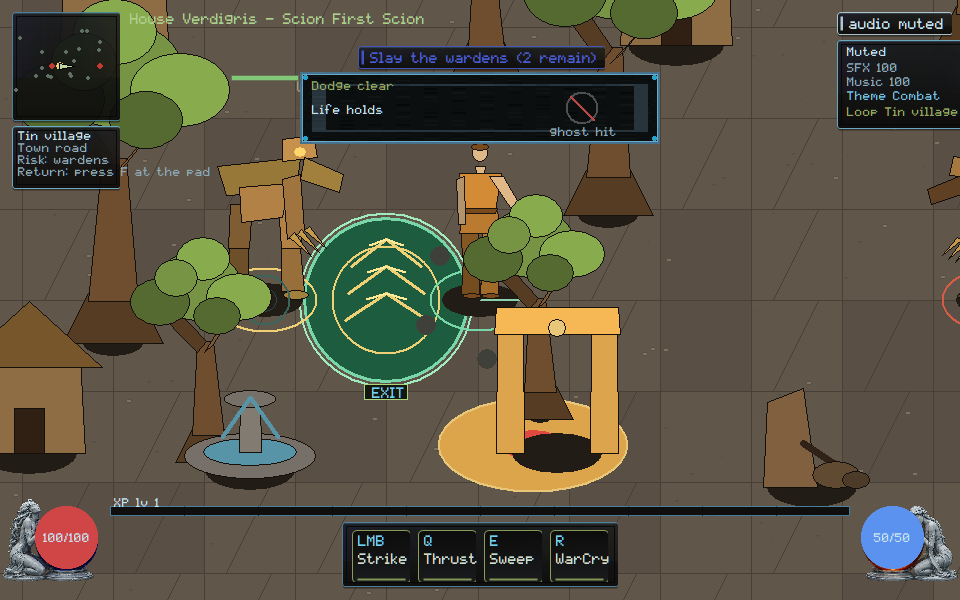
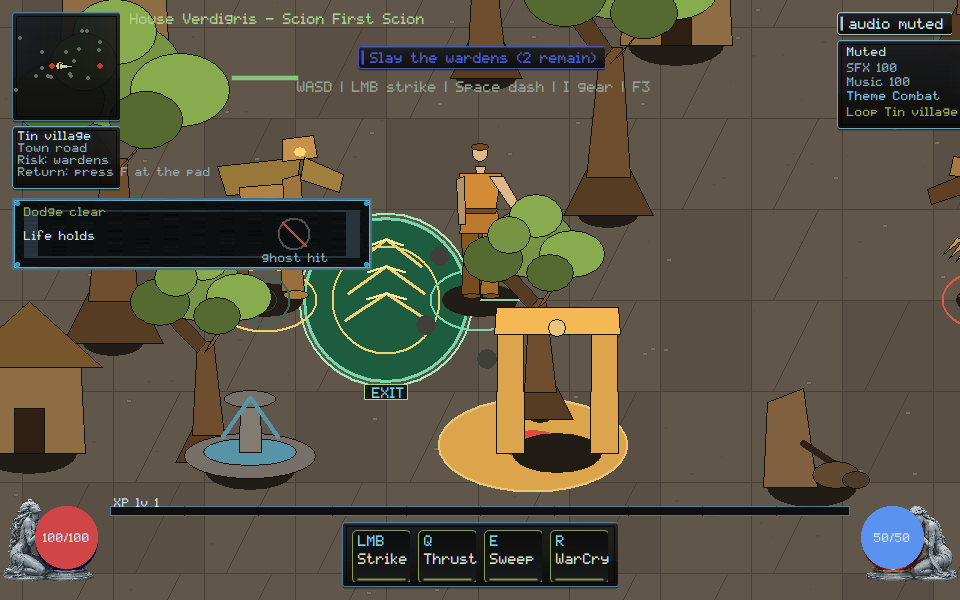
native: park Dodge clear off WASD and Tin village so covering combat HUD cannot certify

Changed region(s): [[0.0, 0.33, 0.4062, 0.45], [0.3125, 0.12, 0.6875, 0.24]]

diff --git a/native/client/main.cpp b/native/client/main.cpp
@@ -8583,8 +8583,12 @@ void paint_telegraph_dodge_review_strip(ClientState& state, HDC dc, const RECT& 
   const int s = hud_scale(static_cast<int>(bounds.bottom));
   const int pane_w = 360 * s;
   const int pane_h = 72 * s;
-  const int left = (static_cast<int>(bounds.right) - pane_w) / 2;
-  const int top = 72 * s;
+  const HudRect parked =
+      park_review_strip(state, static_cast<int>(bounds.right),
+                        static_cast<int>(bounds.bottom), pane_w, pane_h);
+  const int left = parked.x;
+  const int top = parked.y;
+  state.hud_rect_trace.push_back({"dodge-strip", parked});
   RECT pane{left, top, left + pane_w, top + pane_h};
   if (!draw_framekit_nine(state.billboards, dc, state.billboards.fk_panel, pane))
     skin::panel(dc, pane, skin::kVerdigris, 235, 8.0f);
@@ -11712,6 +11716,30 @@ int scenario_telegraph_dodge() {
   scenario_check(dodge_clear && life_holds,
                  "telegraph-dodge: live HUD names Dodge clear and Life holds");
   scenario_check(ghost_hit, "telegraph-dodge: live HUD rejects ghost hit");
+  {
+    auto trace_find = [](const ClientState& s,
+                         const char* label) -> const HudRect* {
+      for (const auto& entry : s.hud_rect_trace)
+        if (entry.first == label) return &entry.second;
+      return nullptr;
+    };
+    const HudRect* strip = trace_find(state, "dodge-strip");
+    const HudRect* ctrl = trace_find(state, "controls");
+    const HudRect* objective = trace_find(state, "objective");
+    const HudRect* route = trace_find(state, "route-card");
+    const HudRect* life = trace_find(state, "orb-life");
+    const bool covers =
+        (strip && ctrl && hud_rects_overlap(*strip, *ctrl)) ||
+        (strip && objective && hud_rects_overlap(*strip, *objective)) ||
+        (strip && route && hud_rects_overlap(*strip, *route)) ||
+        (strip && life && hud_rects_overlap(*strip, *life));
+    scenario_check(
+        verdigris::client::actions::dodge_strip_covers_hud_fails_review(true),
+        "telegraph-dodge: covering WASD, the objective, Tin village, or Life is the anti-pattern");
+    scenario_check(
+        !verdigris::client::actions::dodge_strip_covers_hud_fails_review(covers),
+        "telegraph-dodge: Dodge clear stays off WASD, the objective, Tin village, and Life");
+  }
   return 0;
 }
 

diff --git a/native/client/publish-telegraph-timing-and-geometry.hpp b/native/client/publish-telegraph-timing-and-geometry.hpp
@@ -99,5 +99,8 @@ inline bool millisecond_window_fails_review(int guessed_ticks, int catalog_ticks
 
 inline const char* owner_dodge_clear_label() { return "Dodge clear"; }
 inline const char* owner_life_holds_label() { return "Life holds"; }
+inline bool dodge_strip_covers_hud_fails_review(bool overlap) {
+  return overlap;
+}
 
 }  // namespace verdigris::client::actions

diff --git a/docs/execution/CROSSWALK.md b/docs/execution/CROSSWALK.md
@@ -73,7 +73,7 @@ Cursor evidence notes.
 | VG | Disposition | Existing |
 |---|---|---|
 | VG-ACT-007 | new | `attack-beat` event bridge; owner Attack beat / Anticipate; fabricated swing cannot mint. Not TASK-0108 |
-| VG-ACT-005 | new | catalog-typed warning window (`telegraph-spec`) plus dodge-clear (`telegraph-dodge`); owner strip paints ticks+footprint and Dodge clear / Life holds; ms/50 and ghost hit cannot invent damage. Core ACT stays Kimi |
+| VG-ACT-005 | new | catalog-typed warning window (`telegraph-spec`) plus dodge-clear (`telegraph-dodge`); owner strip paints ticks+footprint and Dodge clear / Life holds; Dodge clear stays off WASD/objective/Tin village/Life; ms/50 and ghost hit cannot invent damage. Core ACT stays Kimi |
 | VG-ACT-001–006, 008 | new / extend | Kimi lease (`native/src/**`) |
 
 ## WORLD (Cursor presentation dressing only)
@@ -313,9 +313,10 @@ VG-ACT-005: local ticks and remote `durationMs` share
 invent a longer window. Owner strip paints Thrust/Sweep ticks and
 footprint; a protocol HUD token without that window cannot certify.
 Expired/cancelled warnings leave no footprint. `telegraph-dodge` owner
-strip paints Dodge clear / Life holds. Ghost hit cannot certify an
-avoided sweep. Scenarios `telegraph-spec` / `telegraph-dodge`.
-Evidence `docs/execution/evidence/VG-ACT-005.json`.
+strip paints Dodge clear / Life holds and parks off WASD, the objective,
+Tin village, and Life. Covering those combat surfaces cannot certify.
+Ghost hit cannot certify an avoided sweep. Scenarios `telegraph-spec` /
+`telegraph-dodge`. Evidence `docs/execution/evidence/VG-ACT-005.json`.
 VG-WORLD-008: dressing-pass v1/v2 change decoration hash only.
 Owner strip paints Dressing / Not solid. A tree visual cannot become an
 unreported solid. Scenario `dressing-pass`. Evidence

diff --git a/docs/execution/CROSSWALK_REGISTRY.md b/docs/execution/CROSSWALK_REGISTRY.md
@@ -35,7 +35,7 @@ not implemented here.
 | VG-ACT-002 | G2 | new | Kimi lease (`native/src/**` / tools); current-head search, no absence claim |
 | VG-ACT-003 | G2 | new | Kimi lease (`native/src/**` / tools); current-head search, no absence claim |
 | VG-ACT-004 | G2 | extend | TASK-0108 — extend, never re-spec TASK-0108 — Kimi lease |
-| VG-ACT-005 | G2 | new | telegraph-spec catalog ticks+reach; telegraph-dodge life holds; durationMs/50 cannot invent a window |
+| VG-ACT-005 | G2 | new | telegraph-spec catalog ticks+reach; telegraph-dodge Dodge clear stays off WASD/objective/Tin village/Life; durationMs/50 cannot invent a window |
 | VG-ACT-006 | G2 | new | Kimi lease (`native/src/**` / tools); current-head search, no absence claim |
 | VG-ACT-007 | G3 | new | attack-beat event bridge; swing sprites cannot mint a beat |
 | VG-ACT-008 | G3 | new | Kimi lease (`native/src/**` / tools); current-head search, no absence claim |

diff --git a/orchestration/CURSOR_KIMI_LANES.md b/orchestration/CURSOR_KIMI_LANES.md
@@ -1137,3 +1137,16 @@ Please move off that branch before taking a new native path.
   remain yours. GOV-002 still unstamped.
   Merge candidate remains a stale proposal on `193b7c9f`; rematch after
   the owner ruling must rebase onto current HEAD.
+
+## Cursor reply (2026-09-06, Dodge clear off WASD and Tin village)
+
+- **Lease:** `main.cpp` still **ACTIVE**. `remote_session.cpp` stays
+  **RELEASED**. Do not re-spec TASK-0108 core/wire (`3b929637`).
+- **Landed this push:** VG-ACT-005/007 — Dodge clear parks off WASD, the
+  objective, Tin village, and Life. Covering those cannot certify.
+  Ghost hit still rejected. Core ACT stays yours. Captures viewed. Not
+  Owner Demo.
+- **Stay off** `native/client/main.cpp` and `docs/execution/**`. SEC/CORE
+  remain yours. GOV-002 still unstamped.
+  Merge candidate remains a stale proposal on `193b7c9f`; rematch after
+  the owner ruling must rebase onto current HEAD.

diff --git a/docs/rebuild/HANDOFF.md b/docs/rebuild/HANDOFF.md
@@ -1,5 +1,14 @@
 # Native reconstitution handoff
 
+## 2026-09-06 — Dodge clear off WASD and Tin village (Cursor)
+
+- VG-ACT-005 / VG-UI-007: Dodge clear / Life holds parks off WASD, the
+  objective, Tin village, and Life. Covering those combat surfaces
+  cannot certify. Ghost hit still rejected. Core ACT stays Kimi. Owner
+  Demo journeys not duplicated.
+- Scenario `telegraph-dodge` PASS. Capture viewed. Not Owner Demo. Not
+  TASK-0108.
+
 ## 2026-09-06 — Pad glyphs off WASD and Tin village (Cursor)
 
 - VG-UI-008 / VG-UI-007: Pad glyphs / A strike parks off WASD, the
